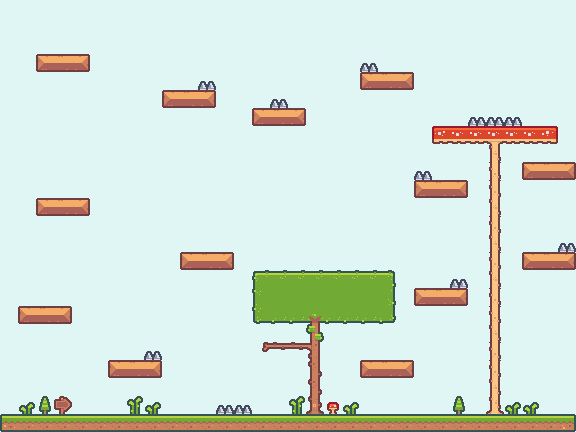
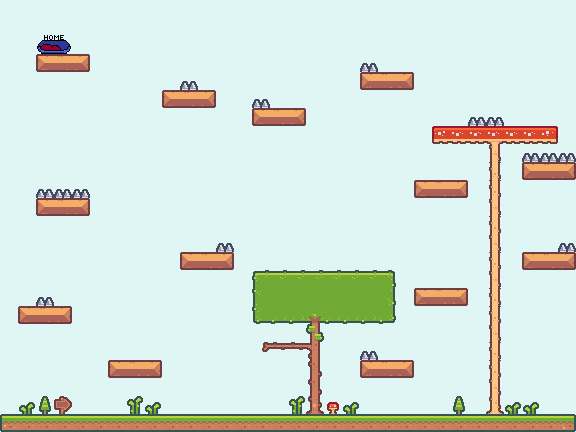
adjustments

diff --git a/js/collisions.js b/js/collisions.js
@@ -1,28 +1,28 @@
 const floorCollisions =
-    [0, 0, 0, 0, 0, 0, 0, 0, 0, 0, 0, 0, 0, 0, 0, 0, 0, 0, 0, 0, 0, 0, 0, 0, 0, 0, 0, 0, 0, 0, 0, 0,
-        0, 0, 0, 0, 0, 0, 0, 0, 0, 0, 0, 0, 0, 0, 0, 0, 0, 0, 0, 0, 0, 0, 0, 0, 0, 0, 0, 0, 0, 0, 0, 0,
-        0, 0, 0, 0, 0, 0, 0, 0, 0, 0, 0, 0, 0, 0, 0, 0, 0, 0, 0, 0, 0, 0, 0, 0, 0, 0, 0, 0, 0, 0, 0, 0,
-        0, 0, 0, 0, 0, 0, 0, 0, 0, 0, 0, 0, 0, 0, 0, 0, 0, 0, 0, 0, 0, 0, 0, 0, 0, 0, 0, 0, 0, 0, 0, 0,
-        0, 0, 0, 0, 0, 0, 0, 0, 0, 0, 0, 0, 0, 0, 0, 0, 0, 0, 0, 0, 0, 0, 0, 0, 0, 0, 0, 0, 0, 0, 0, 0,
-        0, 0, 0, 0, 0, 0, 0, 0, 0, 0, 0, 0, 0, 0, 0, 0, 0, 0, 0, 0, 0, 0, 0, 0, 0, 0, 0, 0, 0, 0, 0, 0,
-        0, 0, 0, 0, 0, 0, 0, 0, 0, 0, 0, 0, 0, 0, 0, 0, 0, 0, 0, 0, 0, 0, 0, 0, 0, 0, 0, 0, 0, 0, 0, 0,
-        0, 0, 0, 0, 0, 0, 0, 0, 0, 0, 0, 0, 0, 0, 0, 0, 0, 0, 0, 0, 0, 0, 0, 0, 0, 0, 0, 0, 0, 0, 0, 0,
-        0, 0, 0, 0, 0, 0, 0, 0, 0, 0, 0, 0, 0, 0, 0, 0, 0, 0, 0, 0, 0, 0, 0, 0, 0, 0, 0, 0, 0, 0, 0, 0,
-        0, 0, 0, 0, 0, 0, 0, 0, 0, 0, 0, 0, 0, 0, 0, 0, 0, 0, 0, 0, 0, 0, 0, 0, 0, 0, 0, 0, 0, 0, 0, 0,
-        0, 0, 0, 0, 0, 0, 0, 0, 0, 0, 0, 0, 0, 0, 0, 0, 0, 0, 0, 0, 0, 0, 0, 0, 0, 0, 0, 0, 0, 0, 0, 0,
-        0, 0, 0, 0, 0, 0, 0, 0, 0, 0, 0, 0, 0, 0, 0, 0, 0, 0, 0, 0, 0, 0, 0, 0, 0, 0, 0, 0, 0, 0, 0, 0,
-        0, 0, 0, 0, 0, 0, 0, 0, 0, 0, 0, 0, 0, 0, 0, 0, 0, 0, 0, 0, 0, 0, 0, 0, 0, 0, 0, 0, 0, 0, 0, 0,
-        0, 0, 0, 0, 0, 0, 0, 0, 0, 0, 0, 0, 0, 0, 0, 0, 0, 0, 0, 0, 0, 0, 0, 0, 0, 0, 0, 0, 0, 0, 0, 0,
-        0, 0, 0, 0, 0, 0, 0, 0, 0, 0, 0, 0, 0, 0, 0, 0, 0, 0, 0, 0, 0, 0, 0, 0, 0, 0, 0, 0, 0, 0, 0, 0,
-        0, 0, 0, 0, 0, 0, 0, 0, 0, 0, 0, 0, 0, 0, 0, 0, 0, 0, 0, 0, 0, 0, 0, 0, 0, 0, 0, 0, 0, 0, 0, 0,
-        0, 0, 0, 0, 0, 0, 0, 0, 0, 0, 0, 0, 0, 0, 0, 0, 0, 0, 0, 0, 0, 0, 0, 0, 0, 0, 0, 0, 0, 0, 0, 0,
-        0, 0, 0, 0, 0, 0, 0, 0, 0, 0, 0, 0, 0, 0, 0, 0, 0, 0, 0, 0, 0, 0, 0, 0, 0, 0, 0, 0, 0, 0, 0, 0,
-        0, 0, 0, 0, 0, 0, 0, 0, 0, 0, 0, 0, 0, 0, 0, 0, 0, 0, 0, 0, 0, 0, 0, 0, 0, 0, 0, 0, 0, 0, 0, 0,
-        0, 0, 0, 0, 0, 0, 0, 0, 0, 0, 0, 0, 0, 0, 0, 0, 0, 0, 0, 0, 0, 0, 0, 0, 0, 0, 0, 0, 0, 0, 0, 0,
-        0, 0, 0, 0, 0, 0, 0, 0, 0, 0, 0, 0, 0, 0, 0, 0, 0, 0, 0, 0, 0, 0, 0, 0, 0, 0, 0, 0, 0, 0, 0, 0,
-        0, 0, 0, 0, 0, 0, 0, 0, 0, 0, 0, 0, 0, 0, 0, 0, 0, 0, 0, 0, 0, 0, 0, 0, 0, 0, 0, 0, 0, 0, 0, 0,
-        0, 0, 0, 0, 0, 0, 0, 0, 0, 0, 0, 0, 0, 0, 0, 0, 0, 0, 0, 0, 0, 0, 0, 0, 0, 0, 0, 0, 0, 0, 0, 0,
-        203, 203, 203, 203, 203, 203, 203, 203, 203, 203, 203, 203, 203, 203, 203, 203, 203, 203, 203, 203, 203, 203, 203, 203, 203, 203, 203, 203, 203, 203, 203, 203]
+    [203, 0, 0, 0, 0, 0, 0, 0, 0, 0, 0, 0, 0, 0, 0, 0, 0, 0, 0, 0, 0, 0, 0, 0, 0, 0, 0, 0, 0, 0, 0, 0, 0, 203,
+        203, 0, 0, 0, 0, 0, 0, 0, 0, 0, 0, 0, 0, 0, 0, 0, 0, 0, 0, 0, 0, 0, 0, 0, 0, 0, 0, 0, 0, 0, 0, 0, 0, 203,
+        203, 0, 0, 0, 0, 0, 0, 0, 0, 0, 0, 0, 0, 0, 0, 0, 0, 0, 0, 0, 0, 0, 0, 0, 0, 0, 0, 0, 0, 0, 0, 0, 0, 203,
+        203, 0, 0, 0, 0, 0, 0, 0, 0, 0, 0, 0, 0, 0, 0, 0, 0, 0, 0, 0, 0, 0, 0, 0, 0, 0, 0, 0, 0, 0, 0, 0, 0, 203,
+        203, 0, 0, 0, 0, 0, 0, 0, 0, 0, 0, 0, 0, 0, 0, 0, 0, 0, 0, 0, 0, 0, 0, 0, 0, 0, 0, 0, 0, 0, 0, 0, 0, 203,
+        203, 0, 0, 0, 0, 0, 0, 0, 0, 0, 0, 0, 0, 0, 0, 0, 0, 0, 0, 0, 0, 0, 0, 0, 0, 0, 0, 0, 0, 0, 0, 0, 0, 203,
+        203, 0, 0, 0, 0, 0, 0, 0, 0, 0, 0, 0, 0, 0, 0, 0, 0, 0, 0, 0, 0, 0, 0, 0, 0, 0, 0, 0, 0, 0, 0, 0, 0, 203,
+        203, 0, 0, 0, 0, 0, 0, 0, 0, 0, 0, 0, 0, 0, 0, 0, 0, 0, 0, 0, 0, 0, 0, 0, 0, 0, 0, 0, 0, 0, 0, 0, 0, 203,
+        203, 0, 0, 0, 0, 0, 0, 0, 0, 0, 0, 0, 0, 0, 0, 0, 0, 0, 0, 0, 0, 0, 0, 0, 0, 0, 0, 0, 0, 0, 0, 0, 0, 203,
+        203, 0, 0, 0, 0, 0, 0, 0, 0, 0, 0, 0, 0, 0, 0, 0, 0, 0, 0, 0, 0, 0, 0, 0, 0, 0, 0, 0, 0, 0, 0, 0, 0, 203,
+        203, 0, 0, 0, 0, 0, 0, 0, 0, 0, 0, 0, 0, 0, 0, 0, 0, 0, 0, 0, 0, 0, 0, 0, 0, 0, 0, 0, 0, 0, 0, 0, 0, 203,
+        203, 0, 0, 0, 0, 0, 0, 0, 0, 0, 0, 0, 0, 0, 0, 0, 0, 0, 0, 0, 0, 0, 0, 0, 0, 0, 0, 0, 0, 0, 0, 0, 0, 203,
+        203, 0, 0, 0, 0, 0, 0, 0, 0, 0, 0, 0, 0, 0, 0, 0, 0, 0, 0, 0, 0, 0, 0, 0, 0, 0, 0, 0, 0, 0, 0, 0, 0, 203,
+        203, 0, 0, 0, 0, 0, 0, 0, 0, 0, 0, 0, 0, 0, 0, 0, 0, 0, 0, 0, 0, 0, 0, 0, 0, 0, 0, 0, 0, 0, 0, 0, 0, 203,
+        203, 0, 0, 0, 0, 0, 0, 0, 0, 0, 0, 0, 0, 0, 0, 0, 0, 0, 0, 0, 0, 0, 0, 0, 0, 0, 0, 0, 0, 0, 0, 0, 0, 203,
+        203, 0, 0, 0, 0, 0, 0, 0, 0, 0, 0, 0, 0, 0, 0, 0, 0, 0, 0, 0, 0, 0, 0, 0, 0, 0, 0, 0, 0, 0, 0, 0, 0, 203,
+        203, 0, 0, 0, 0, 0, 0, 0, 0, 0, 0, 0, 0, 0, 0, 0, 0, 0, 0, 0, 0, 0, 0, 0, 0, 0, 0, 0, 0, 0, 0, 0, 0, 203,
+        203, 0, 0, 0, 0, 0, 0, 0, 0, 0, 0, 0, 0, 0, 0, 0, 0, 0, 0, 0, 0, 0, 0, 0, 0, 0, 0, 0, 0, 0, 0, 0, 0, 203,
+        203, 0, 0, 0, 0, 0, 0, 0, 0, 0, 0, 0, 0, 0, 0, 0, 0, 0, 0, 0, 0, 0, 0, 0, 0, 0, 0, 0, 0, 0, 0, 0, 0, 203,
+        203, 0, 0, 0, 0, 0, 0, 0, 0, 0, 0, 0, 0, 0, 0, 0, 0, 0, 0, 0, 0, 0, 0, 0, 0, 0, 0, 0, 0, 0, 0, 0, 0, 203,
+        203, 0, 0, 0, 0, 0, 0, 0, 0, 0, 0, 0, 0, 0, 0, 0, 0, 0, 0, 0, 0, 0, 0, 0, 0, 0, 0, 0, 0, 0, 0, 0, 0, 203,
+        203, 0, 0, 0, 0, 0, 0, 0, 0, 0, 0, 0, 0, 0, 0, 0, 0, 0, 0, 0, 0, 0, 0, 0, 0, 0, 0, 0, 0, 0, 0, 0, 0, 203,
+        203, 0, 0, 0, 0, 0, 0, 0, 0, 0, 0, 0, 0, 0, 0, 0, 0, 0, 0, 0, 0, 0, 0, 0, 0, 0, 0, 0, 0, 0, 0, 0, 0, 203,
+        203, 203, 203, 203, 203, 203, 203, 203, 203, 203, 203, 203, 203, 203, 203, 203, 203, 203, 203, 203, 203, 203, 203, 203, 203, 203, 203, 203, 203, 203, 203, 203, 203, 203]
 
 
 const platformCollisions =
@@ -50,3 +50,29 @@ const platformCollisions =
         0, 0, 0, 0, 0, 0, 0, 0, 0, 0, 0, 0, 0, 0, 0, 0, 0, 0, 0, 0, 0, 0, 0, 0, 0, 0, 0, 0, 0, 0, 0, 0,
         0, 0, 0, 0, 0, 0, 0, 0, 0, 0, 0, 0, 0, 0, 0, 0, 0, 0, 0, 0, 0, 0, 0, 0, 0, 0, 0, 0, 0, 0, 0, 0,
         0, 0, 0, 0, 0, 0, 0, 0, 0, 0, 0, 0, 0, 0, 0, 0, 0, 0, 0, 0, 0, 0, 0, 0, 0, 0, 0, 0, 0, 0, 0, 0]
+
+
+const spikesLayout = [0, 0, 0, 0, 0, 0, 0, 0, 0, 0, 0, 0, 0, 0, 0, 0, 0, 0, 0, 0, 0, 0, 0, 0, 0, 0, 0, 0, 0, 0, 0, 0,
+    0, 0, 200, 200, 0, 0, 0, 0, 0, 0, 0, 0, 0, 0, 0, 0, 0, 0, 0, 0, 0, 0, 0, 0, 0, 0, 0, 0, 0, 0, 0, 0,
+    0, 0, 206, 206, 0, 0, 0, 0, 0, 0, 0, 0, 0, 0, 0, 0, 0, 0, 0, 0, 0, 0, 0, 0, 0, 0, 0, 0, 0, 0, 0, 0,
+    0, 0, 0, 0, 0, 0, 0, 0, 0, 0, 0, 0, 0, 0, 0, 0, 0, 0, 0, 0, 69, 0, 0, 0, 0, 0, 0, 0, 0, 0, 0, 0,
+    0, 0, 0, 0, 0, 0, 0, 0, 0, 0, 69, 0, 0, 0, 0, 0, 0, 0, 0, 0, 0, 0, 0, 0, 0, 0, 0, 0, 0, 0, 0, 0,
+    0, 0, 0, 0, 0, 0, 0, 0, 0, 0, 0, 0, 0, 0, 69, 0, 0, 0, 0, 0, 0, 0, 0, 0, 0, 0, 0, 0, 0, 0, 0, 0,
+    0, 0, 0, 0, 0, 0, 0, 0, 0, 0, 0, 0, 0, 0, 0, 0, 0, 0, 0, 0, 0, 0, 0, 0, 0, 0, 69, 69, 0, 0, 0, 0,
+    0, 0, 0, 0, 0, 0, 0, 0, 0, 0, 0, 0, 0, 0, 0, 0, 0, 0, 0, 0, 0, 0, 0, 0, 0, 0, 0, 0, 0, 0, 0, 0,
+    0, 0, 0, 0, 0, 0, 0, 0, 0, 0, 0, 0, 0, 0, 0, 0, 0, 0, 0, 0, 0, 0, 0, 0, 0, 0, 0, 0, 0, 69, 69, 69,
+    0, 0, 0, 0, 0, 0, 0, 0, 0, 0, 0, 0, 0, 0, 0, 0, 0, 0, 0, 0, 0, 0, 0, 0, 0, 0, 0, 0, 0, 0, 0, 0,
+    0, 0, 69, 69, 69, 0, 0, 0, 0, 0, 0, 0, 0, 0, 0, 0, 0, 0, 0, 0, 0, 0, 0, 0, 0, 0, 0, 0, 0, 0, 0, 0,
+    0, 0, 0, 0, 0, 0, 0, 0, 0, 0, 0, 0, 0, 0, 0, 0, 0, 0, 0, 0, 0, 0, 0, 0, 0, 0, 0, 0, 0, 0, 0, 0,
+    0, 0, 0, 0, 0, 0, 0, 0, 0, 0, 0, 0, 0, 0, 0, 0, 0, 0, 0, 0, 0, 0, 0, 0, 0, 0, 0, 0, 0, 0, 0, 0,
+    0, 0, 0, 0, 0, 0, 0, 0, 0, 0, 0, 0, 69, 0, 0, 0, 0, 0, 0, 0, 0, 0, 0, 0, 0, 0, 0, 0, 0, 0, 0, 69,
+    0, 0, 0, 0, 0, 0, 0, 0, 0, 0, 0, 0, 0, 0, 0, 0, 0, 0, 0, 0, 0, 0, 0, 0, 0, 0, 0, 0, 0, 0, 0, 0,
+    0, 0, 0, 0, 0, 0, 0, 0, 0, 0, 0, 0, 0, 0, 0, 0, 0, 0, 0, 0, 0, 0, 0, 0, 0, 0, 0, 0, 0, 0, 0, 0,
+    0, 0, 69, 0, 0, 0, 0, 0, 0, 0, 0, 0, 0, 0, 0, 0, 0, 0, 0, 0, 0, 0, 0, 0, 0, 0, 0, 0, 0, 0, 0, 0,
+    0, 0, 0, 0, 0, 0, 0, 0, 0, 0, 0, 0, 0, 0, 0, 0, 0, 0, 0, 0, 0, 0, 0, 0, 0, 0, 0, 0, 0, 0, 0, 0,
+    0, 0, 0, 0, 0, 0, 0, 0, 0, 0, 0, 0, 0, 0, 0, 0, 0, 0, 0, 0, 0, 0, 0, 0, 0, 0, 0, 0, 0, 0, 0, 0,
+    0, 0, 0, 0, 0, 0, 0, 0, 0, 0, 0, 0, 0, 0, 0, 0, 0, 0, 0, 0, 69, 0, 0, 0, 0, 0, 0, 0, 0, 0, 0, 0,
+    0, 0, 0, 0, 0, 0, 0, 0, 0, 0, 0, 0, 0, 0, 0, 0, 0, 0, 0, 0, 0, 0, 0, 0, 0, 0, 0, 0, 0, 0, 0, 0,
+    0, 0, 0, 0, 0, 0, 0, 0, 0, 0, 0, 0, 0, 0, 0, 0, 0, 0, 0, 0, 0, 0, 0, 0, 0, 0, 0, 0, 0, 0, 0, 0,
+    0, 0, 0, 0, 0, 0, 0, 0, 0, 0, 0, 0, 0, 0, 0, 0, 0, 0, 0, 0, 0, 0, 0, 0, 0, 0, 0, 0, 0, 0, 0, 0,
+    0, 0, 0, 0, 0, 0, 0, 0, 0, 0, 0, 0, 0, 0, 0, 0, 0, 0, 0, 0, 0, 0, 0, 0, 0, 0, 0, 0, 0, 0, 0, 0]

diff --git a/js/base.js b/js/base.js
@@ -1,3 +1,7 @@
+const startButton = document.getElementById('start-button')
+const startScreen = document.getElementById('start')
+const healthV = document.getElementById('health')
+
 const canvas = document.querySelector("canvas");
 const c = canvas.getContext("2d");
 
@@ -8,10 +12,25 @@ const scaledC = {
     width: canvas.width / 4,
     height: canvas.height / 4
 }
+const spikes2D = [];
+for (let i = 0; i < spikesLayout.length; i += 32) {
+    spikes2D.push(spikesLayout.slice(i))
+}
+const spikeBlocks = []
+spikes2D.forEach((row, y) => {
+    row.forEach((symbol, x) => {
+        if (symbol === 69) {
+            spikeBlocks.push(new SpikeBlock({
+                position: { x: x * 18, y: y * 18 }
+            }))
+        }
+    })
+})
+
 
 const floorCollisions2D = [];
-for (let i = 0; i < floorCollisions.length; i += 32) {
-    floorCollisions2D.push(floorCollisions.slice(i, i + 32))
+for (let i = 0; i < floorCollisions.length; i += 34) {
+    floorCollisions2D.push(floorCollisions.slice(i, i + 34))
 }
 
 const collisionBlocks = [];
@@ -150,8 +169,16 @@ function animate() {
 
 
 }
+startButton.addEventListener("click", function () {
+    startScreen.style.display = "none";
+    canvas.style.display = "block";
+    healthV.style.display = "block";
+    animate();
+})
 
-animate();
+
+
+let jumpLimit = 0
 
 window.addEventListener("keydown", (event) => {
     if (event.key === "d") {
@@ -159,7 +186,13 @@ window.addEventListener("keydown", (event) => {
     } else if (event.key === "a") {
         keys.a.pressed = true;
     } else if (event.key === "w") {
-        player.movement.y = -8;
+        jumpLimit += 1
+        if (jumpLimit < 2) {
+            player.movement.y = -9;
+            setTimeout(() => {
+                jumpLimit = 0;
+            }, 500)
+        }
     }
 })
 window.addEventListener("keyup", (event) => {

diff --git a/styles/style.css b/styles/style.css
@@ -1,3 +1,54 @@
 body {
     background-color: black;
 }
+
+#start {
+    background-color: white;
+    display: flex;
+    width: 100%;
+    height: 100%;
+    flex-direction: column;
+    align-items: center;
+}
+
+.cat-bed {
+    height: 50vh;
+    width: 20vw;
+    margin-top: 10vh;
+}
+
+#start-button {
+    background-color: green;
+    padding: 10px;
+    border-radius: 4px;
+    height: 6vh;
+    width: 8vw;
+}
+
+.instructions {
+    color: black;
+    font-family: 'Courier New', Courier, monospace;
+    font-size: 2rem;
+    font-weight: bold;
+}
+
+#health {
+    display: none;
+}
+
+.h1,
+.h2,
+.h3 {
+    height: 20vh;
+    margin-right: 0;
+}
+
+#game-screen {
+    margin-left: 0;
+    display: flex;
+}
+
+#game {
+    height: 100vh;
+    display: none;
+}

diff --git a/index.html b/index.html
@@ -5,7 +5,19 @@
 </head>
 
 <body>
-    <canvas></canvas>
+    <div id="start">
+        <img class="cat-bed" src=./images/cat-bed.png>
+        <button id="start-button">Start Game</button>
+        <p class="instructions">Use W(jump), A(left) and D(right) to help this little kitty get home!</p>
+    </div>
+    <div id="game-screen">
+        <div id="health">
+            <img class="h1" src="images/tile_0044.png">
+            <img class="h2" src="images/tile_0044.png">
+            <img class="h3" src="images/tile_0044.png">
+        </div>
+        <canvas id="game"></canvas>
+    </div>
     <script src="js/functions.js"></script>
     <script src="js/classes/CollisionBlock.js"></script>
     <script src="js/classes/sprite.js"></script>

diff --git a/js/classes/player.js b/js/classes/player.js
@@ -80,6 +80,7 @@ class Cat extends Sprite {
         this.gravity();
         this.updateHitbox();
         this.checkForVerticialCollisions();
+
     }
 
     updateHitbox() {
@@ -92,6 +93,7 @@ class Cat extends Sprite {
             height: 11,
         }
     }
+
     checkForHorizontalCollisions() {
         for (let i = 0; i < this.collisionBlocks.length; i += 1) {
             const collisionBlock = this.collisionBlocks[i];
@@ -146,7 +148,6 @@ class Cat extends Sprite {
                 }
             }
         }
-        // platform
         for (let i = 0; i < this.platformCollisionBlocks.length; i += 1) {
             const platformCollisionBlock = this.platformCollisionBlocks[i];
             if (

diff --git a/js/functions.js b/js/functions.js
@@ -6,3 +6,12 @@ function collision({ object1, object2 }) {
         object1.position.x + object1.width >= object2.position.x
     )
 }
+
+function spiked({ object1, object2 }) {
+    return (
+        object1.position.y + object1.height === object2.position.y &&
+        object1.position.y === object2.position.y + object2.height &&
+        object1.position.x === object2.position.x + object2.width &&
+        object1.position.x + object1.width === object2.position.x
+    )
+}

diff --git a/js/classes/CollisionBlock.js b/js/classes/CollisionBlock.js
@@ -10,3 +10,17 @@ class CollisionBlock {
         this.draw();
     }
 }
+
+
+class SpikeBlock {
+    constructor({ position }) {
+        this.position = position;
+        this.width = 18;
+        this.height = 18;
+    }
+    draw() {
+    }
+    update() {
+        this.draw();
+    }
+}
